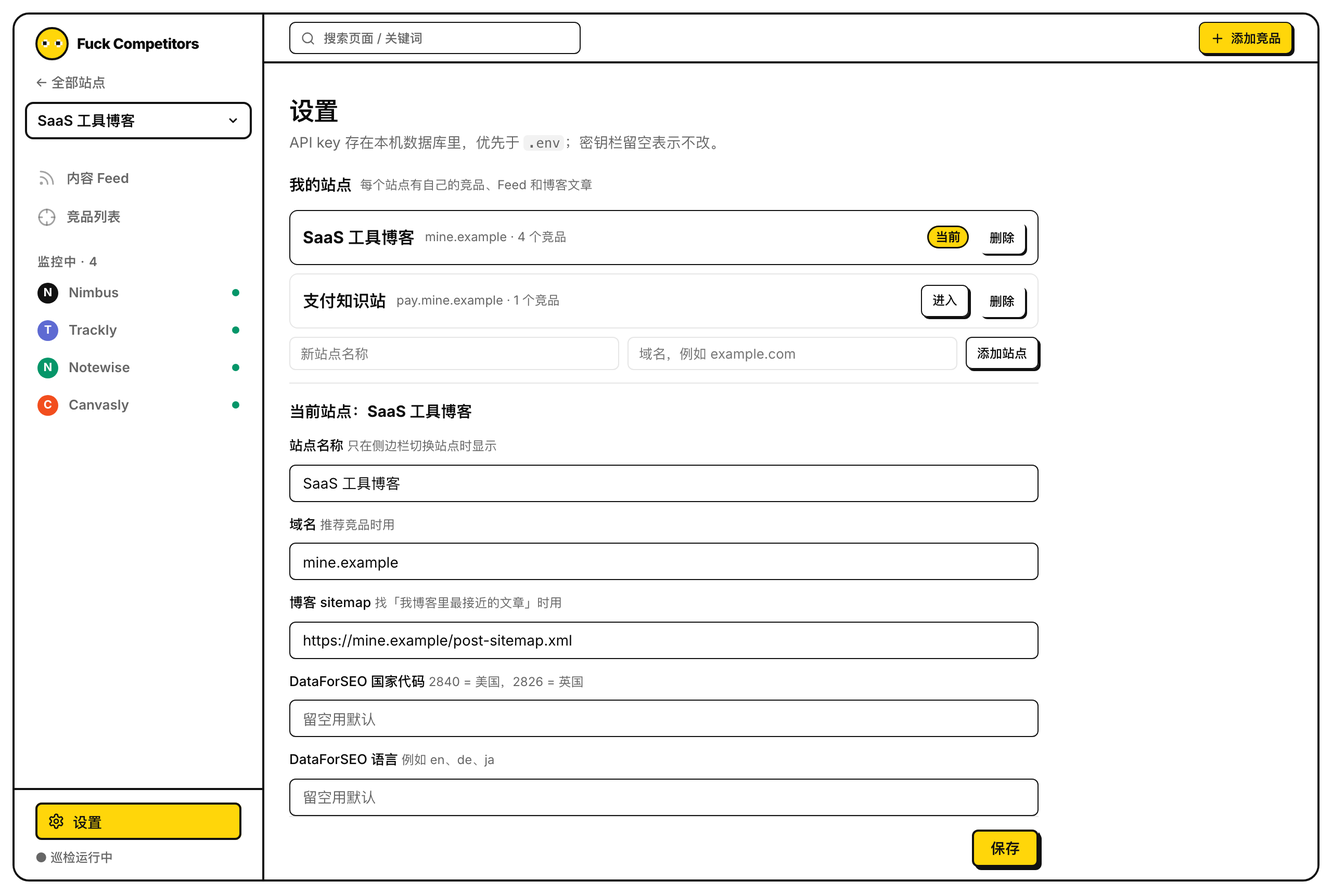
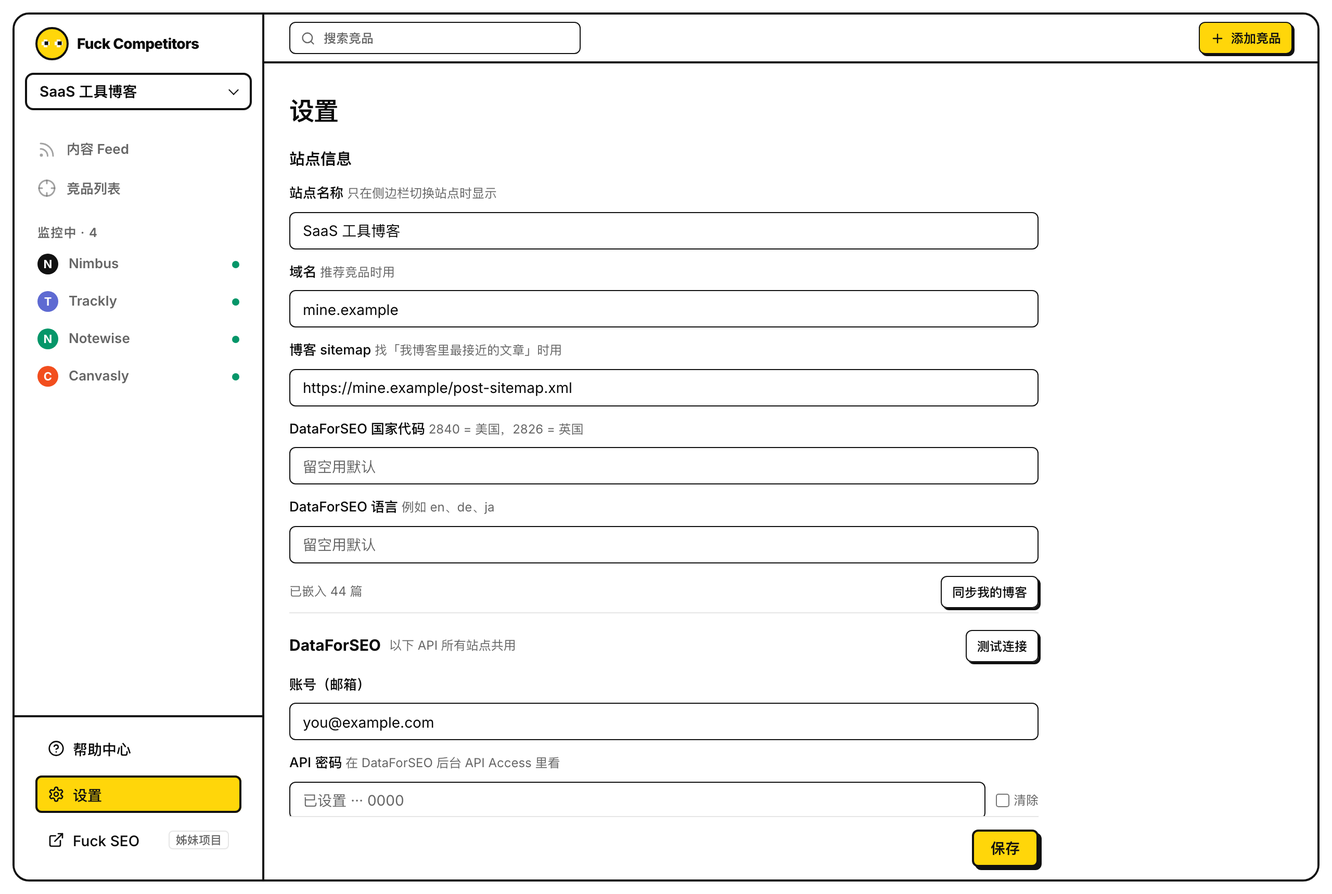
docs: rewrite the README for the feed-first product
What it does (feed, similar posts, writing ideas, keywords, trends,
suggestions, multiple sites, MCP), quick start, how the monthly check and
matching work, API keys, MCP on /mcp, deployment, config, development and
security (the web UI has no login). Fresh screenshots, plus one of a card
with its writing idea and similar posts open.

diff --git a/README.md b/README.md
@@ -2,119 +2,100 @@
 
 # Fuck Competitors
 
-**盯紧竞争对手的网站，把每一次变化都记成日志。**
+**盯住对手新发的内容，找到你下一篇该写什么。**
 
 [![CI](https://github.com/tod-zhang/fuck-competitors/actions/workflows/ci.yml/badge.svg)](https://github.com/tod-zhang/fuck-competitors/actions/workflows/ci.yml)
 [![License: MIT](https://img.shields.io/badge/License-MIT-blue.svg)](LICENSE)
 [![Python 3.12+](https://img.shields.io/badge/python-3.12%2B-3776AB?logo=python&logoColor=white)](https://www.python.org/)
 [![Docker](https://img.shields.io/badge/docker-ready-2496ED?logo=docker&logoColor=white)](Dockerfile)
 
-一个自托管、开源的竞品内容监控应用。填入竞品的 `sitemap.xml`，它每月巡检一次，
-把对手**新发布的文章**排进内容 Feed，配上你博客里最接近的文章、AI 写作思路和关键词数据，帮你找到下一篇该写什么。
+一个开源、可自行部署的竞品内容监控工具。填入对手的 `sitemap.xml`，它每月巡检一次，
+把对手**新发布的文章**排进内容 Feed，配上你博客里最接近的文章、AI 写作思路和关键词数据。
 
 **[👀 在线演示 → competitors.fuckseo.io](https://competitors.fuckseo.io)**（示例数据，只读）
 
-姊妹项目：**[Fuck SEO](https://fuckseo.io)** —— 免费的 Google Search Console 数据分析工具。
+姊妹项目：**[Fuck SEO](https://fuckseo.io)** —— 免费的 Google Search Console 数据分析工具。竞品监控看对手，Fuck SEO 看自己。
 
 </div>
-
-## 界面截图
 
 | 全部站点 | 内容 Feed |
 | --- | --- |
 | ![全部站点](docs/screenshots/sites.png) | ![内容 Feed](docs/screenshots/feed.png) |
-| **设置** | |
-| ![设置](docs/screenshots/settings.png) | |
+| **写作思路与相似文章** | **设置** |
+| ![写作思路与相似文章](docs/screenshots/card.png) | ![设置](docs/screenshots/settings.png) |
 
 ---
 
-## 功能特性
+## 它能做什么
 
-- 📰 **内容 Feed** —— 竞品新发的文章排成收件箱，保存、忽略、写笔记；附带 AI 功能（见下文「内容 Feed」）
-- 🗂 **多站点** —— 运营好几个不同品类的站？首页是所有站点的卡片，点进去看各自的竞品、Feed 和博客文章；站点 ID 在网址里（`/?site=2`），可以多开、分享
-- 🔍 **sitemap 监控** —— 只读 sitemap，轻量地发现竞品新发布的页面
-- 🧠 **AI 分析（MCP）** —— 内置只读 MCP server，把变化开放给 Claude Code / Codex 等 Agent，直接分析"对手在优化什么"
-- 🤫 **静默基线** —— 首次巡检只记录"现在有哪些页"，不会把旧文章当成新文章刷屏
-- ⚙ **竞品设置** —— 随时改名称 / sitemap 地址、立即巡检、删除竞品
-- 🐳 **一条命令部署** —— 单容器 + 单个 SQLite 文件，无需任何外部服务
-- 🪶 **无前端构建** —— 服务端渲染 + 原生 JS，克隆即跑
+- 📰 **内容 Feed**：对手最近 30 天新发的文章，按竞品分组排成收件箱。★ 保存值得写的（顺手记一句笔记），✕ 忽略不相关的。
+- ≈ **相似文章**：同步你自己博客的 sitemap，给每篇对手文章找出你博客里最接近的 3 篇。0.8 以上说明你多半已经写过。
+- ✍ **写作思路**：对你还没写过的话题（最接近的一篇相似度低于 0.6），巡检后自动用大模型生成建议标题、切入角度和核心关键词，保存时带进笔记。
+- 🔑 **关键词数据**：按需从 DataForSEO 拉这篇文章已经排名的词，以及核心词的搜索量、难度和相关词。
+- 📈 **趋势**：每个竞品一份 30 天内容策略解读：在押什么方向、反复出现的主题、你可以跟进的选题。
+- 🧭 **推荐竞品**：按你的域名找出和你抢同一批关键词的网站，一键关注并自动找它的 sitemap；不感兴趣的可以排除。
+- 🗂 **多站点**：运营好几个不同品类的站？每个站点有自己的竞品、Feed 和博客，首页一张卡片一个站点。
+- 🤖 **MCP**：把数据开放给 Claude Code、Cursor 等 AI 客户端，直接问「这个月对手发了哪些我还没写过的？」。
+- 🐳 **好部署**：一个 Docker 容器加一个 SQLite 文件，不依赖任何外部服务；没有前端构建步骤。
 
 ## 快速开始
 
 ```bash
-docker compose up
+git clone https://github.com/tod-zhang/fuck-competitors.git
+cd fuck-competitors
+docker compose up -d
 # 打开 http://localhost:9527
 ```
 
-就这样 —— 一个容器、一个 SQLite 文件（持久化在主机的 `./data` 目录里），不依赖任何外部服务。
+然后：
 
-## 安装方式
+1. 在首页「全部站点」添加你的站点（名称和域名）。
+2. 进入站点，在「设置 → 站点信息」填上你博客的 sitemap，点「同步我的博客」。
+3. 右上角「添加竞品」填对手的 sitemap，或者点「推荐竞品」让它按你的域名找。
+4. 在「设置」里填 API Key（见下文），相似文章、写作思路、关键词和趋势才会开启。
+5. 之后每个月打开「内容 Feed」看一遍。
 
-### 方式一：Docker（推荐）
+应用里左下角的「帮助中心」有每个功能的详细说明。
 
-```bash
-git clone https://github.com/tod-zhang/fuck-competitors.git
-cd fuck-competitors
-docker compose up -d          # 后台运行
-# 打开 http://localhost:9527
-```
+## 工作方式
 
-数据库就是主机仓库目录下的 `./data/app.db`。它是**目录挂载**（不是 docker 命名卷），所以重建镜像、`docker compose down -v`、改项目名都不会动它——升级代码后重新部署，竞品记录都还在。需要重置为空白：删掉 `./data` 目录再 `up`。
+- **巡检**：每个竞品每月一次，只下载它的 sitemap 和上次对比，找出新上线的页面；分类页、标签页、作者页、图片这类网址会被过滤掉。新文章会单独抓一次，取标题、摘要、缩略图和正文开头。想马上查，点 Feed 右上角「立即刷新」。
+- **第一次巡检**只记下对手现有的页面，不会把旧文章当新文章刷屏；不过最近 30 天内更新过的文章会放进 Feed，免得一开始是空的。
+- **相似度**：把对手文章和你博客文章的「标题 + 正文开头约 6000 字」做向量，算余弦相似度，只在同一个站点里比较。
+- 抓取时遵守 robots.txt、限制同一域名的请求间隔，遇到 403 / 429 会自动退避。
 
-> 从 CI/脚本里**每次 clone 到新目录**部署的话，相对的 `./data` 会落在新目录里。这种情况把 compose 里的挂载改成一个固定的绝对路径（如 `/var/lib/fuck-competitors/data:/data`），数据就和代码目录解耦了。
+## API Key
 
-仓库自带一个 `Makefile` 封装了常用命令（固定 `-p fuck-competitors` 项目名，并在经典构建器下构建，
-这样即使项目目录是中文/非 ASCII 路径也能跑）：
+所有 AI 和数据功能都是可选的，各自填了 Key 才开启。在应用的「设置」里填（存在本机数据库里，优先于 `.env`，每项都有「测试连接」），也可以写进 `.env`（见 `.env.example`）。API Key 所有站点共用。
 
-```bash
-make up        # 构建并后台启动 app(:9527) + mcp(:9528)
-make logs      # 跟踪两个服务的日志
-make ps        # 查看容器状态
-make down      # 停止并移除容器（保留 ./data 里的数据库）
-```
+| 服务 | 用来做什么 | 说明 |
+| --- | --- | --- |
+| **DataForSEO** | 推荐竞品、关键词数据 | 按次计费。推荐结果会缓存，关键词只在你点按钮时才查。每个站点可以单独设国家和语言。 |
+| **嵌入接口** | 相似文章 | 任意 OpenAI 格式的 `/embeddings` 接口，默认 OpenRouter 上的 `qwen/qwen3-embedding-8b`。 |
+| **大模型** | 写作思路、趋势 | 任意 OpenAI 格式的 `/chat/completions` 接口（默认 DeepSeek），或者 Claude 官方 API（默认 `claude-opus-5-5`）。 |
 
-### 方式二：源码本地运行
+## MCP（给 AI 用）
 
-```bash
-git clone https://github.com/tod-zhang/fuck-competitors.git
-cd fuck-competitors
-
-python3 -m venv .venv && . .venv/bin/activate
-pip install -r requirements.txt
-
-uvicorn app.main:app --port 9527        # 打开 http://localhost:9527
-```
-
-> ⚠ 调度器跑在进程内，请用**单个 worker**（默认即是）。多 worker 会重复触发巡检。
-
-## 使用流程
-
-1. **添加竞品** —— 点「＋ 添加竞品」，填竞品的 `sitemap.xml`。
-   首次巡检是**静默建基线**：只记录当前全部页面，**不会**给每个页面灌一条"新增"
-   —— 初始清单里没有"变化"这个信号。
-2. **让它跑** —— 所有竞品每月自动重抓一次（或在卡片设置里点「立即巡检」马上查一次）。
-   从第二次巡检起，新发布的文章进「内容 Feed」。
-
-## AI 分析（MCP）
-
-应用自带一个**只读 MCP server**，把竞品的新文章和变化以工具形式开放给 AI Agent
-（Claude Code / Codex / Claude Desktop / ChatGPT 等）。接上之后用**自然语言**问就行 ——
-Agent 自己调下面的工具拉数据、推理出"对手在优化什么"。
+应用自己就在 **`/mcp`** 上提供 MCP 服务：你用什么地址打开网站，MCP 就是那个地址加 `/mcp`（例如本机是 `http://localhost:9527/mcp`）。打开「设置 → MCP」可以生成访问令牌，并直接复制 Claude Code 命令或 `mcp.json` 配置。
 
 | 工具 | 作用 |
 | --- | --- |
 | `list_sites` | 你的站点，以及每个站点监控的竞品 |
-| `get_feed` | 最近 N 天竞品新文章：相似文章、写作思路、关键词数据、你的笔记 / 保存状态（可按站点、状态、竞品过滤） |
-| `get_trends` | 每个竞品的 30 天内容策略解读（「趋势」标签页的内容） |
-| `list_competitors` | 列出监控中的竞品（追踪页数、近 7 天活跃度，可按站点过滤） |
-| `get_changes` | 拉某段时间的增 / 删 / 改（可按竞品、类型过滤） |
-| `get_diff` | 某条变更的详情（如疑似修改的 `lastmod` 变化） |
-| `get_page_history` | 单个页面随时间的变化轨迹（如 `/pricing`） |
-| `summarize_window` | 一次性打包某竞品 N 天内的全部变化，直接交给模型分析 |
+| `get_feed` | 最近的新文章：相似文章、写作思路、关键词数据、你的笔记和保存状态（可按站点、状态、竞品过滤） |
+| `get_trends` | 每个竞品的 30 天内容策略解读 |
+| `list_competitors` | 监控中的竞品（可按站点过滤） |
+| `get_changes` / `get_page_history` / `summarize_window` / `get_diff` | 原始的页面增删记录 |
 
-### 方式一：本地（stdio）—— Claude Code / Codex
+接上之后可以这样问：
 
-在项目根目录建 `.mcp.json`，然后**重启客户端**：
+```
+这个月对手发了哪些我还没写过的文章？按写作思路排个优先级。
+看一下 Nimbus 最近 30 天的内容策略，我能跟进哪些选题？
+```
+
+所有工具都是只读的。只在自己电脑上用可以不设令牌；**能从公网访问到时，务必生成令牌**（或设置环境变量 `FC_MCP_TOKEN`）。
+
+不想开服务的话，也可以让客户端直接以 stdio 方式启动它，在项目根目录建 `.mcp.json`：
 
 ```json
 {
@@ -128,135 +109,89 @@ Agent 自己调下面的工具拉数据、推理出"对手在优化什么"。
 }
 ```
 
-### 方式二：远程（HTTP）—— 自托管后直接输 URL
+## 部署
 
-应用自己就在 **`/mcp`** 上提供 MCP（和网页同一个地址、同一个 HTTPS），打开「设置 → MCP」可以看到地址、
-生成访问令牌，并直接复制 Claude Code 命令或 `mcp.json` 配置：
+### Docker（推荐）
 
-```
-https://<你的域名>/mcp
-```
-
-`docker compose up` 另外还会起一个独立的 MCP HTTP 服务（端口 9528，令牌用 `FC_MCP_TOKEN`），需要时可用。
-
-- **Claude Code**：`claude mcp add --transport http fuck-competitors http://<host>:9528/mcp`
-  （设了 token 再加 `--header "Authorization: Bearer <token>"`）
-- **Claude Desktop / ChatGPT**：添加远程 MCP / 连接器，粘贴上面的 URL。
-
-> 🔒 **安全**：这个端点**只读，但会暴露你监控了哪些对手和你的笔记**。本机 / 内网用可不设鉴权；
-> **暴露到公网必须设令牌**（「设置 → MCP」里生成，或环境变量 `FC_MCP_TOKEN`），客户端连接时带
-> `Authorization: Bearer <token>`。
-
-### 接上之后这样问
-
-```
-这个月对手发了哪些我还没写过的文章？按写作思路排个优先级。（get_feed）
-监控了哪些对手？（list_competitors）
-用 summarize_window 看 cowseal 最近 14 天，它在优化什么？按定价 / 定位 / 产品 / 内容分类说。
-get_page_history /pricing —— 各家定价页这段时间怎么变的？
+```bash
+docker compose up -d     # 应用在 :9527；另有一个独立的 MCP 服务在 :9528（可选）
 ```
 
-> ⚠ **前提：库里得有变化数据。** MCP 只读、不爬取。刚加的竞品只有"静默基线"、没有变化，分析不出东西——
-> 变化要随巡检积累。想先试效果，可灌一份演示数据：
-> ```bash
-> FC_DB_URL="sqlite:///./data/demo.db" python tests/seed_demo.py
-> ```
-> 再把上面的 `FC_DB_URL` / URL 指向 `./data/demo.db` 即可。
+数据库是主机上的 `./data/app.db`。它是目录挂载，不是 Docker 命名卷，所以重建镜像、`docker compose down -v` 都不会动它。备份就复制这个文件；想从头开始，删掉 `./data` 再启动。
 
-## 内容 Feed（每月看一遍）
+仓库带了一个 `Makefile`（固定项目名，并用经典构建器，项目放在中文路径下也能构建）：
 
-侧边栏「内容 Feed」把竞品**新上线的文章**按竞品分组排成卡片（标题、摘要、缩略图），显示最近 30 天的，可按竞品筛选，
-顶部显示上次巡检时间，「立即刷新」马上重新巡检全部竞品。首次巡检时，还会把 `lastmod` 在 30 天内的文章放进来
-（如果一个站把所有页面的 `lastmod` 都标成今天，就不信它）。每篇可以 ★ 保存（顺手写一句笔记）或 ✕ 忽略，每组还有「全部忽略」。
+```bash
+make up      # 构建并后台启动
+make logs    # 看日志
+make down    # 停止（保留 ./data）
+```
 
-对你博客里还没写过的文章（最接近的一篇相似度低于 0.6，或还没同步博客），巡检后会用大模型自动生成一份「写作思路」：建议标题、切入角度和核心关键词，保存这篇时会带进笔记。
+部署到公网时，用 nginx / Caddy 之类在前面加 HTTPS，并记得给 MCP 设令牌。
 
-「趋势」标签页给每个竞品一份 30 天内容策略解读（策略判断 + 反复出现的主题和对应文章 + 可跟进的选题），
-超过 7 天或之后又发了新文章的标为过期，可以一键生成全部缺失 / 过期的。
+### 源码运行
 
-四个 AI 功能，各自填了 key 才启用。key 在侧边栏左下角的「设置」里填（存在本机数据库里，每个服务都有「测试连接」），也可以写进 `.env`（见 `.env.example`），设置里填的优先：
+```bash
+python3 -m venv .venv && . .venv/bin/activate
+pip install -r requirements.txt
+uvicorn app.main:app --port 9527
+```
 
-| 功能 | 用什么 | 配置 |
-| --- | --- | --- |
-| **推荐竞品**：按「我的域名」找自然搜索竞品，一键关注并自动找 sitemap | DataForSEO Labs `competitors_domain` | `FC_DATAFORSEO_LOGIN` / `FC_DATAFORSEO_PASSWORD` |
-| **我博客里最接近的文章**：同步你的博客 sitemap，向量 + 余弦相似度给每篇竞品文章找最像的 3 篇 | 任意 OpenAI 格式的 embeddings 接口，默认 OpenRouter `qwen/qwen3-embedding-8b` | `FC_EMBEDDING_API_KEY` |
-| **关键词数据**（按需）：这篇文章已排名的词 + 核心词的搜索量 / 难度 / 相关词 | DataForSEO Labs `ranked_keywords` + `related_keywords` | 同上 |
-| **趋势（30 天内容策略）**：把竞品最近 30 天的文章交给大模型，归纳策略和主题 | 任意 OpenAI 格式的 chat 接口（默认 DeepSeek），或 Claude 官方 API | `FC_LLM_PROVIDER` / `FC_LLM_BASE_URL` / `FC_LLM_API_KEY` / `FC_LLM_MODEL` |
-
-每个站点的域名、博客 sitemap 和 DataForSEO 国家 / 语言在「设置 → 我的站点」里填（进入站点后，侧边栏顶部可切换站点），填完点「同步我的博客」。DataForSEO 按次计费：推荐竞品的结果会缓存，
-关键词只在你点按钮时才查。
-
-## 监控原理
-
-每次巡检只读竞品的 sitemap，和上次对比得出页面**新增 / 删减**；若页面带 `<lastmod>`，时间戳变化会标记一条**「疑似修改」**。
-新增的文章会单独抓一次正文，给「内容 Feed」生成标题、摘要和相似文章。
-
-> **诚实说明**：「疑似修改」只是推测（且仅当站点诚实填写了 `<lastmod>`），看不到*改了什么*。
+> ⚠ 定时巡检跑在进程内，请只开**一个 worker**（默认就是），否则会重复巡检。
 
 ## 配置
 
-所有配置都是 `FC_` 前缀的环境变量（见 `.env.example`）：
+所有配置都是 `FC_` 开头的环境变量，常用的如下（完整列表见 `.env.example` 和 `app/config.py`）：
 
 | 变量 | 默认值 | 含义 |
 | --- | --- | --- |
 | `FC_DB_URL` | `sqlite:///./data/app.db` | 数据库位置 |
 | `FC_DEFAULT_INTERVAL_HOURS` | `720` | 所有竞品的巡检间隔（小时，默认 30 天） |
+| `FC_MCP_TOKEN` | 空 | MCP 访问令牌（「设置」里填的优先） |
+| `FC_RESPECT_ROBOTS` | `true` | 是否遵守对手站点的 robots.txt |
+| `FC_CRAWL_DELAY_SECONDS` | `1.0` | 同一域名两次请求的最小间隔 |
 | `FC_REQUEST_TIMEOUT` | `20` | 单次请求超时（秒） |
-| `FC_MAX_SITEMAP_URLS` | `50000` | 单个 sitemap 的抓取上限 |
-| `FC_WRITE_BATCH` | `200` | 巡检写库每 N 行提交一次（频繁释放写锁，避免阻塞并发添加） |
-| `FC_USER_AGENT` | `FuckCompetitors/0.1 …` | 抓取时使用的 User-Agent |
-| `FC_RESPECT_ROBOTS` | `true` | 是否遵守目标站 robots.txt（若某站 robots 误挡了 sitemap，可关掉） |
-| `FC_CRAWL_DELAY_SECONDS` | `1.0` | 同一域名两次请求的最小间隔（robots 的 Crawl-delay 更大时取大者） |
-| `FC_BLOCK_COOLDOWN_SECONDS` | `900` | 遇到 403 / 无 Retry-After 的 429 后，对该域名退避多久 |
-| `FC_DEMO_MODE` | `false` | 只读演示站：每天重置为虚构示例数据，不巡检，拒绝一切写操作（**会清空数据库**，勿对真实数据开启） |
-| `FC_MY_DOMAIN` / `FC_MY_SITEMAP_URL` | 空 | 老数据库升级时，用来生成第一个站点的域名 / 博客 sitemap（之后在「设置」里改） |
-| `FC_DATAFORSEO_LOGIN` / `FC_DATAFORSEO_PASSWORD` | 空 | DataForSEO 账号（推荐竞品 + 关键词数据） |
-| `FC_DATAFORSEO_LOCATION_CODE` / `FC_DATAFORSEO_LANGUAGE_CODE` | `2840` / `en` | 关键词数据的国家和语言 |
-| `FC_EMBEDDING_BASE_URL` / `FC_EMBEDDING_API_KEY` / `FC_EMBEDDING_MODEL` | OpenRouter / 空 / `qwen/qwen3-embedding-8b` | 相似文章用的嵌入接口 |
-| `FC_LLM_PROVIDER` | `openai` | 大模型接口类型：`openai`（任意 OpenAI 格式）或 `anthropic`（Claude 官方 API，模型默认 `claude-opus-5-5`，不用填接口地址） |
-| `FC_LLM_BASE_URL` / `FC_LLM_API_KEY` / `FC_LLM_MODEL` | `https://api.deepseek.com/v1` / 空 / `deepseek-chat` | 策略总结用的大模型 |
+| `FC_DATAFORSEO_LOGIN` / `FC_DATAFORSEO_PASSWORD` | 空 | DataForSEO 账号 |
+| `FC_EMBEDDING_BASE_URL` / `FC_EMBEDDING_API_KEY` / `FC_EMBEDDING_MODEL` | OpenRouter / 空 / `qwen/qwen3-embedding-8b` | 嵌入接口 |
+| `FC_LLM_PROVIDER` | `openai` | `openai`（任意 OpenAI 格式）或 `anthropic`（Claude 官方 API） |
+| `FC_LLM_BASE_URL` / `FC_LLM_API_KEY` / `FC_LLM_MODEL` | DeepSeek / 空 / `deepseek-chat` | 大模型 |
+| `FC_DEMO_MODE` | `false` | 只读演示站：每天重置为虚构示例数据，不巡检，拒绝写操作（**会清空数据库**，不要对真实数据开启） |
 
 ## 开发
 
 ```bash
-python3 -m venv .venv && . .venv/bin/activate
-pip install -r requirements.txt
-uvicorn app.main:app --reload --port 9527   # http://localhost:9527
-
-python tests/test_basic.py             # sitemap 解析 + 增删改 diff（纯标准库）
-python tests/test_security.py          # 拒绝 XXE / 实体炸弹的 sitemap
-python tests/test_feed.py              # 内容 Feed：入库、相似文章、竞品推荐（不联网）
-python tests/e2e_local.py              # 全链路：抓取 → diff → 落库（本地 HTTP 服务）
-python tests/seed_demo.py              # 灌入演示数据，方便逛界面
+uvicorn app.main:app --reload --port 9527
+python tests/seed_demo.py       # 灌入两个示例站点的演示数据，方便逛界面（会清空当前数据库）
 ```
 
-## 架构
+测试都是可以直接运行的脚本，不联网：
 
-- **FastAPI** 应用，服务端渲染 **Jinja2** 模板（无构建步骤），抽屉 / 设置 / 筛选用原生 `fetch` + 少量 JS。
-- **APScheduler** 每个竞品一个进程内定时任务 → **请用单 worker 运行**。
-- **SQLite**（经 SQLModel）：`competitors / pages / changes / snapshots` 四张表。
-- `app/monitor/` 是零依赖的核心：`sitemap.py`（抓取 + 解析）、`basic.py`（增删改 diff）、
-  `extract.py`（正文提取）、`favicon.py`（站点图标解析）。
+```bash
+for t in tests/test_*.py; do python "$t"; done
+python tests/e2e_local.py       # 全链路：起一个本地 HTTP 服务 → 抓取 → 对比 → 入库
+```
+
+技术栈：**FastAPI** + 服务端渲染的 **Jinja2** 模板 + 原生 JS（没有前端构建），**SQLite**（经 SQLModel），进程内的 **APScheduler** 定时任务。
 
 ```
 app/
-├── main.py          # FastAPI 入口 + lifespan（启动调度器）
-├── web.py           # 页面路由 + 表单/接口端点
-├── service.py       # 巡检编排
-├── scheduler.py     # APScheduler 定时任务
-├── models.py        # SQLModel 表
-├── viewmodels.py    # DB 行 → 模板数据
-├── config.py · db.py · timeutil.py
-├── monitor/         # sitemap.py · basic.py · extract.py · favicon.py
-├── templates/       # index.html + partials/（Feed、设置、竞品设置等片段）
-└── static/          # app.css · app.js · favicon.svg
+├── main.py          # 入口：数据库、定时任务、/mcp
+├── web.py           # 页面、站点和竞品的接口
+├── feed_web.py      # 内容 Feed、趋势、推荐竞品、设置的接口
+├── feed.py          # 新文章入库、抓正文、相似文章、写作思路、关键词、趋势
+├── integrations.py  # DataForSEO / 嵌入 / 大模型（OpenAI 兼容或 Claude）
+├── mcp_server.py    # MCP 工具
+├── service.py · scheduler.py   # 巡检编排和定时任务
+├── monitor/         # sitemap 抓取解析、新增 / 删减对比、正文提取、站点图标
+├── templates/ · static/
+└── models.py · db.py · config.py · demo.py
 ```
 
-## 安全说明
+## 安全
 
-- Sitemap 是不可信输入，XML 用 **defusedxml** 解析（防 XXE / 实体展开攻击），并有回归测试覆盖。
-- 抓取时设置了自定义 `User-Agent` 和超时；请做个好公民，用合理的巡检间隔。
-- 站点图标（favicon）由用户浏览器直接向竞品站点请求，并带 `no-referrer`，不经任何第三方。
+- Sitemap 是不可信输入，用 **defusedxml** 解析（防 XXE / 实体展开），有回归测试。
+- 网页界面本身**没有登录**。部署到公网时，请放在只有你能访问的地方（内网、VPN，或者在反向代理上加一层认证）；MCP 另有令牌保护。
+- 竞品的站点图标由你的浏览器直接请求，带 `no-referrer`，不经过第三方。
 
 ## 许可证
 

diff --git a/docs/screenshots/README.md b/docs/screenshots/README.md
@@ -1,11 +1,10 @@
 # 截图
 
-把以下 3 张 PNG 放进本目录，README 顶部的截图墙就会显示：
+README 顶部的截图墙用这 4 张图，都是演示数据（`python tests/seed_demo.py`）截的：
 
 | 文件名 | 内容 |
 | --- | --- |
 | `sites.png` | 首页「全部站点」（每个站点一张卡片） |
-| `feed.png` | 「内容 Feed」首页（竞品新文章收件箱） |
-| `settings.png` | 「设置」页（我的站点 + API key） |
-
-> 提示：开发模式下 `python tests/seed_demo.py` 灌入演示数据后，界面会很丰富，适合截图。
+| `feed.png` | 「内容 Feed」（竞品新文章收件箱） |
+| `card.png` | 一篇文章展开「写作思路」和「相似文章」 |
+| `settings.png` | 「设置」页（站点信息 + API key + MCP） |
